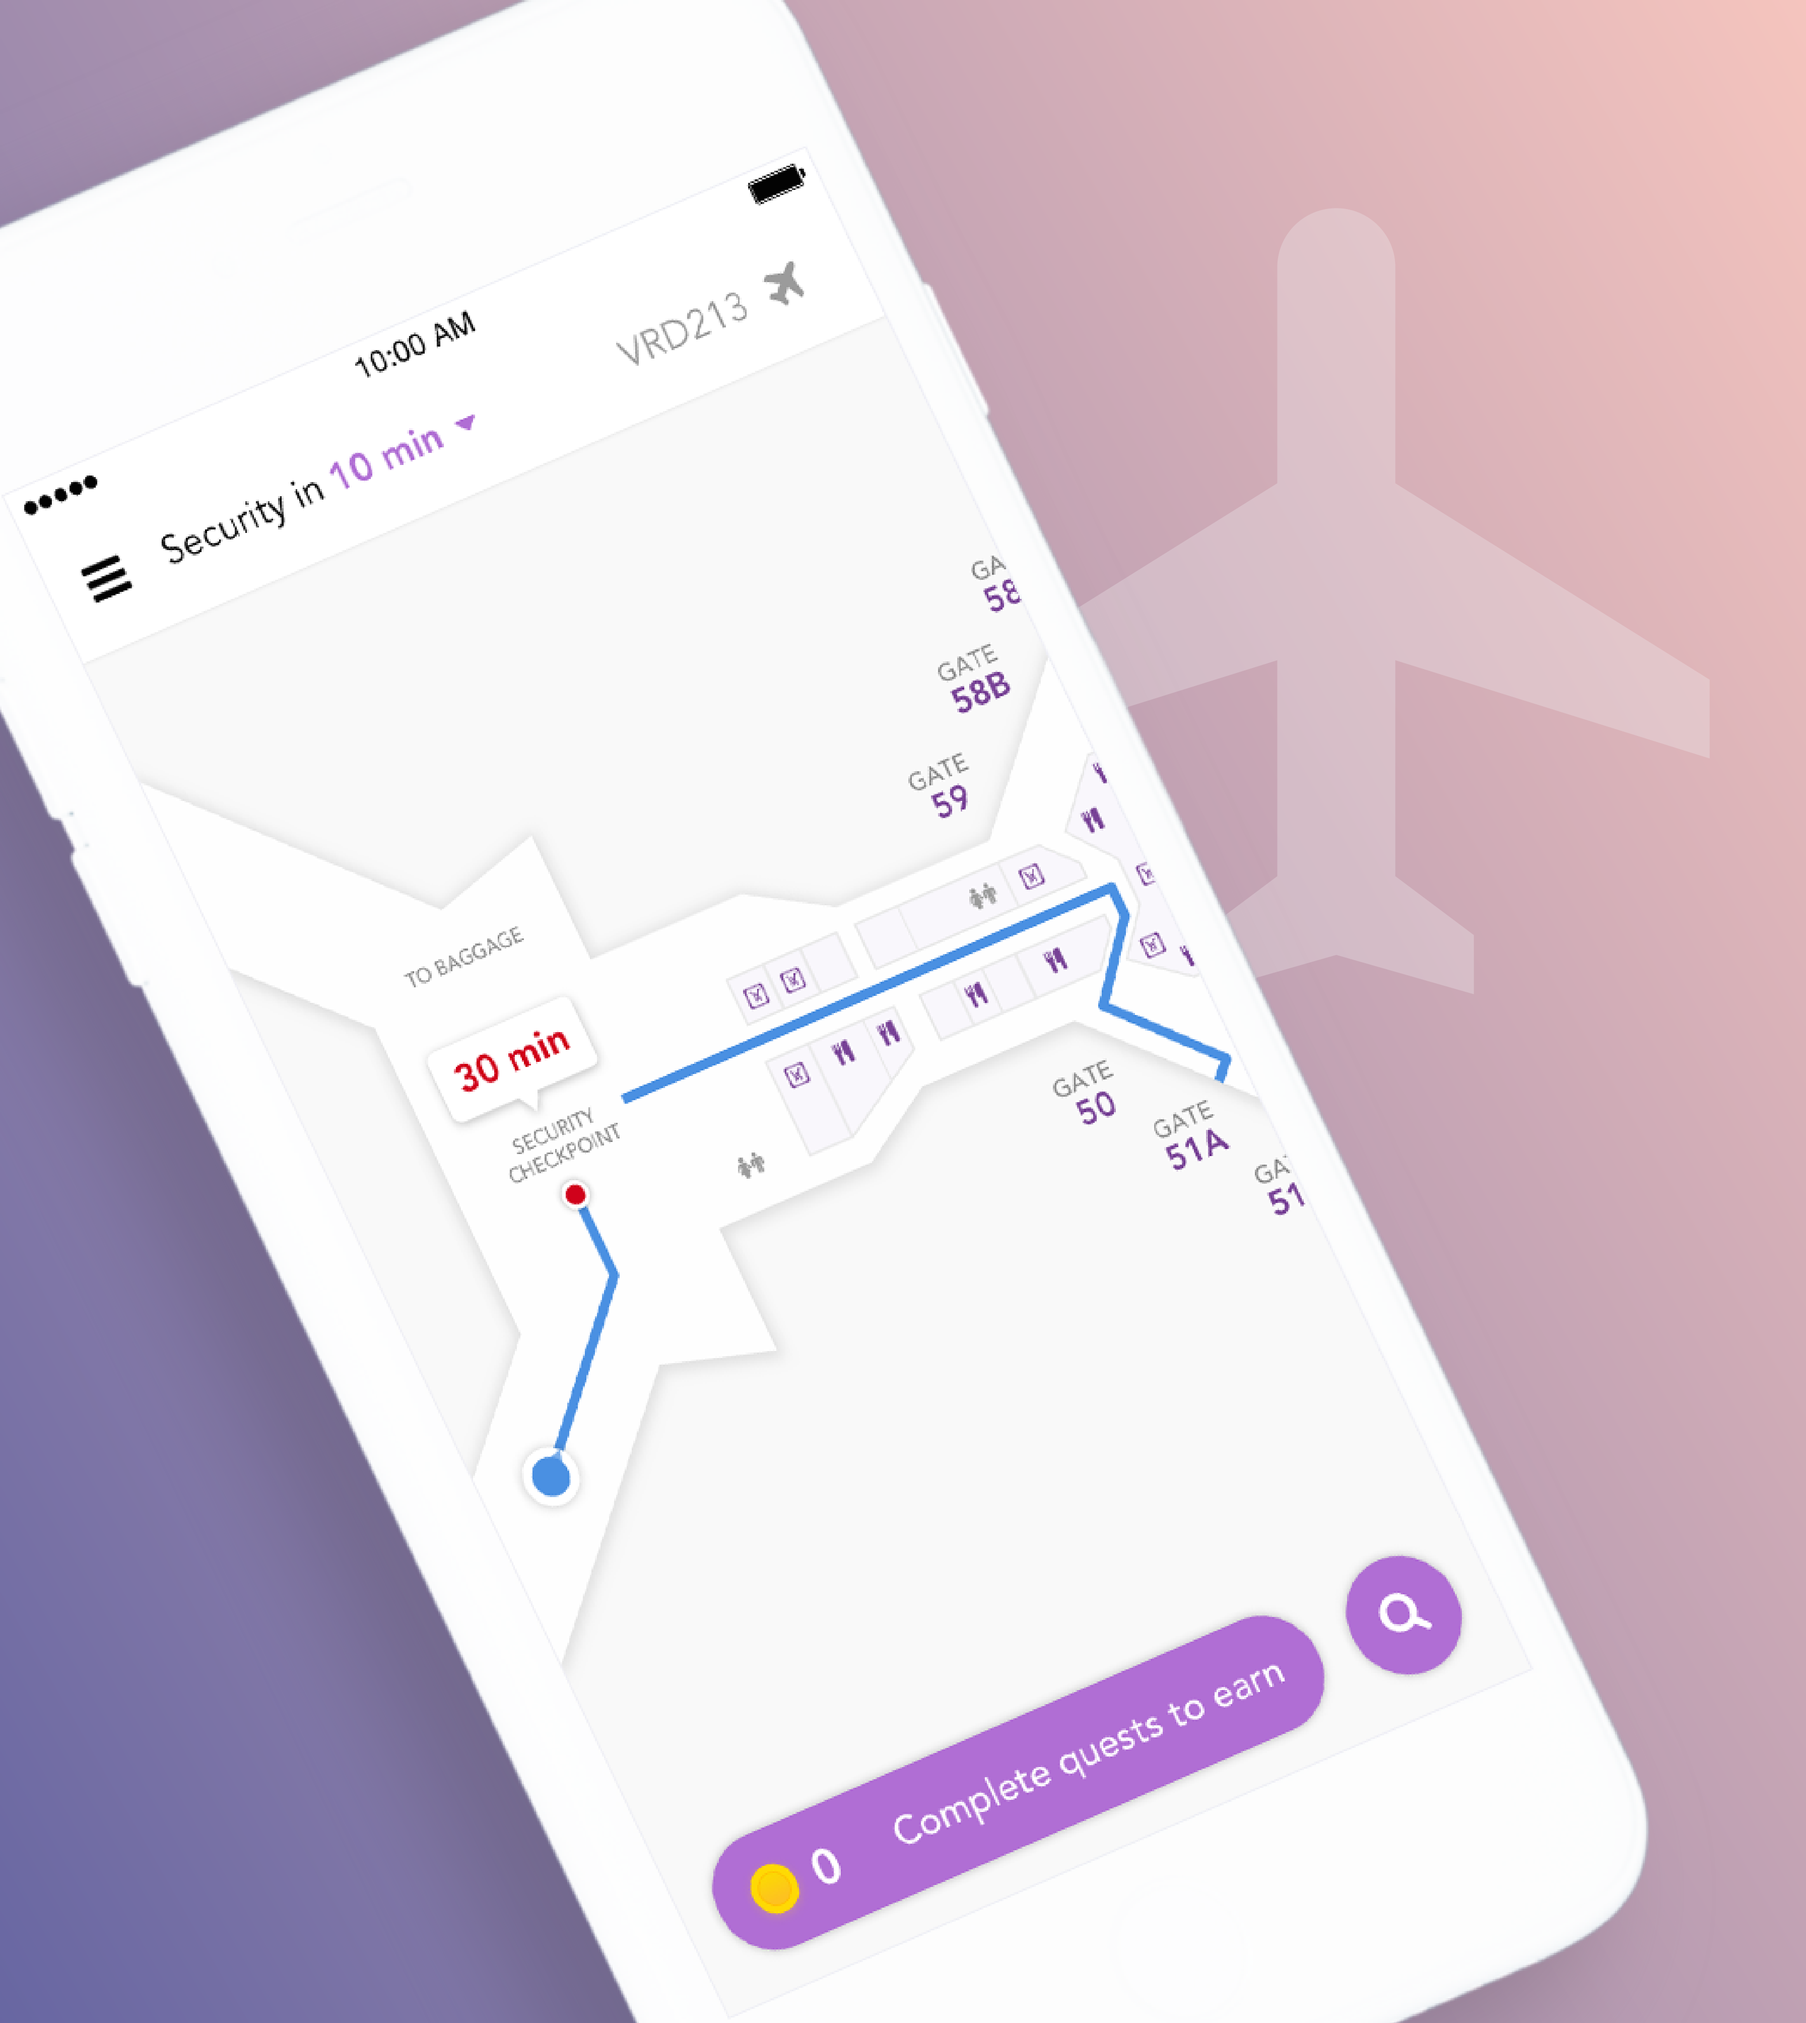
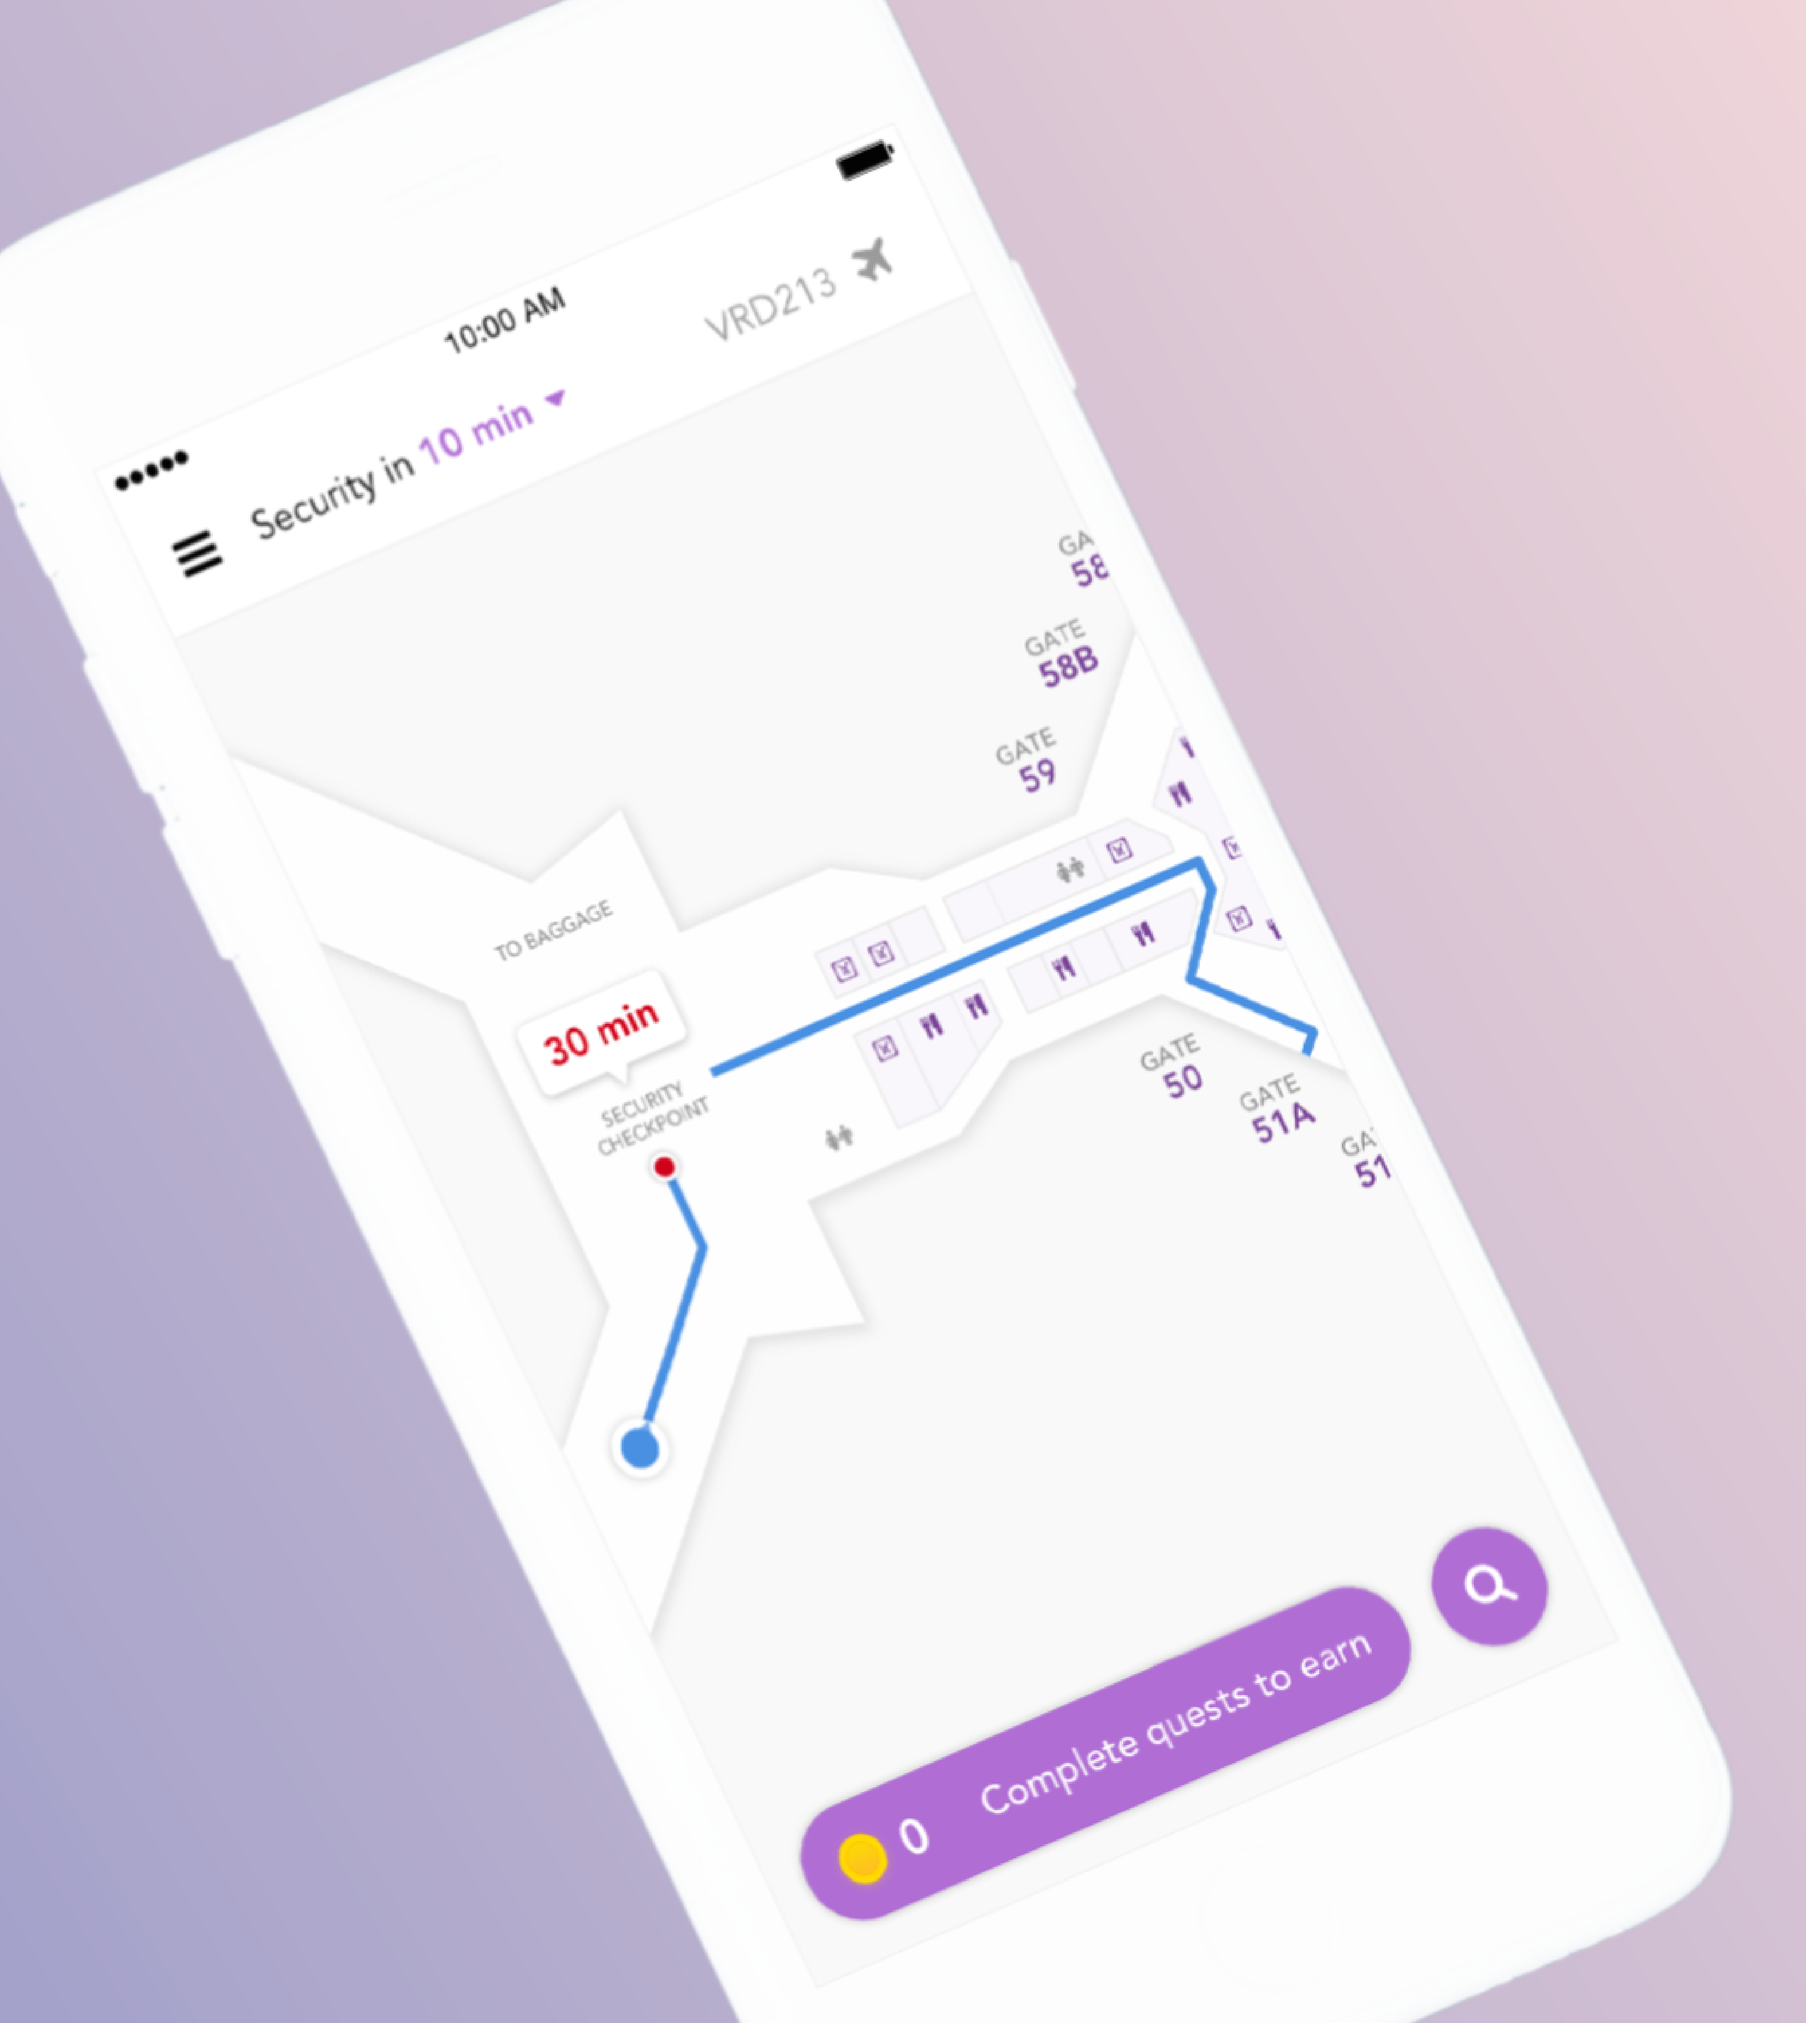
wingithome

diff --git a/assets/css/style.css b/assets/css/style.css
@@ -924,7 +924,7 @@ a svg:hover .contact-icon {
 
 
 #wingit .home-img {
-	background-image: url(../img/wingit_mockup.svg);
+	background-image: url(../img/wingit_home.png);
 	position: relative;
 	height: 31.250em;
 	width: 100%;
